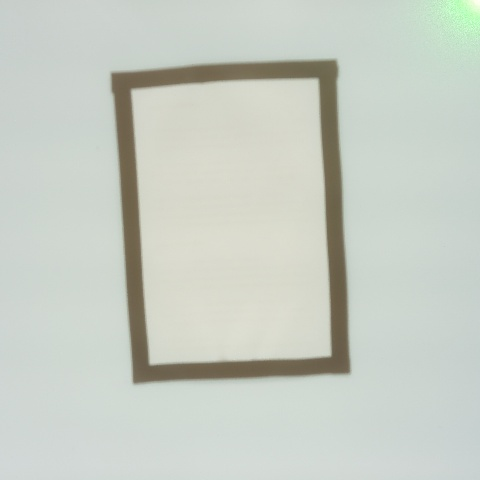
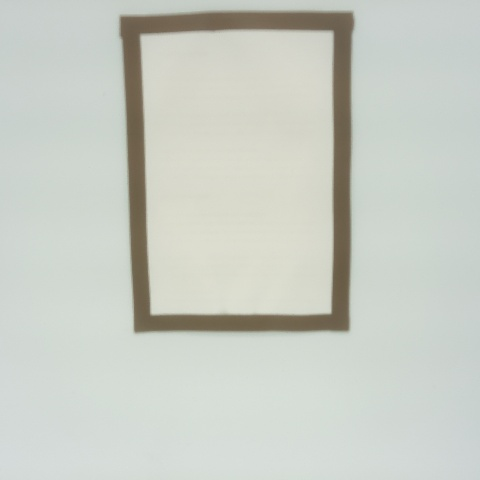
完成矩形图像识别

Changed region(s): [[0.2188, 0.0, 0.75, 0.8125], [0.875, 0.0, 1.0, 0.0938]]

diff --git a/scripts/task/detect_rec.py b/scripts/task/detect_rec.py
@@ -1,0 +1,84 @@
+import cv2
+import time
+import numpy as np
+from picamera2 import Picamera2
+from typing import Tuple, List
+
+def capture_image() -> np.ndarray:
+    cam = Picamera2()
+    cam.configure(cam.create_still_configuration())
+    cam.start()
+    time.sleep(2)
+    frame = cam.capture_array()
+    cam.close()
+    return frame
+
+def crop_image(img: np.ndarray, center: Tuple[int, int], width: int, height: int) -> np.ndarray:
+    x, y = center
+    h, w = img.shape[:2]
+    w2, h2 = width // 2, height // 2
+    x1, y1 = max(0, x - w2), max(0, y - h2)
+    x2, y2 = min(w, x + w2), min(h, y + h2)
+    return img[y1:y2, x1:x2].copy()
+
+def find_black_rectangle_corners(debug: bool = False, save_path: str = "debug_detected.jpg") -> List[Tuple[float, float]]:
+    original_img = capture_image()
+    h, w = original_img.shape[:2]
+    side_len = min(w, h)
+    center_pt = (w // 2, h // 2)
+    cropped_img = crop_image(original_img, center_pt, side_len, side_len)
+    resized_img = cv2.resize(cropped_img, (480, 480))
+    height, width = resized_img.shape[:2]
+
+    gray = cv2.cvtColor(resized_img, cv2.COLOR_BGR2GRAY)
+    gray_blur = cv2.GaussianBlur(gray, (5, 5), 0)
+    _, thresh = cv2.threshold(gray_blur, 0, 255, cv2.THRESH_BINARY_INV + cv2.THRESH_OTSU)
+    kernel = np.ones((5, 5), np.uint8)
+    closed = cv2.morphologyEx(thresh, cv2.MORPH_CLOSE, kernel, iterations=2)
+
+    contours, _ = cv2.findContours(closed, cv2.RETR_EXTERNAL, cv2.CHAIN_APPROX_SIMPLE)
+    if not contours:
+        return []
+
+    contour = max(contours, key=cv2.contourArea)
+    peri = cv2.arcLength(contour, True)
+    approx = cv2.approxPolyDP(contour, 0.02 * peri, True)
+    if len(approx) == 4:
+        corners = [tuple(pt[0]) for pt in approx]
+    else:
+        rot_rect = cv2.minAreaRect(contour)
+        box = cv2.boxPoints(rot_rect)
+        corners = [tuple(pt) for pt in box]
+
+    def sort_corners_clockwise(c_pts):
+        c_pts = sorted(c_pts, key=lambda p: p[0] + p[1])
+        tl = c_pts[0]; br = c_pts[-1]
+        other = c_pts[1:-1]
+        tr, bl = (other[0], other[1]) if other[0][0] > other[1][0] else (other[1], other[0])
+        return [tl, tr, br, bl]
+
+    corners = sort_corners_clockwise(corners)
+
+    result_points = []
+    for (px, py) in corners:
+        X = (px / (width - 1)) * 100.0
+        Y = ((height - 1 - py) / (height - 1)) * 100.0
+        result_points.append((round(X, 4), round(Y, 4)))
+
+    if debug:
+        pts_int = np.array([[int(x), int(y)] for (x, y) in corners], dtype=np.int32)
+        cv2.polylines(resized_img, [pts_int.reshape(-1, 1, 2)], True, (0, 255, 0), 2)
+        font = cv2.FONT_HERSHEY_SIMPLEX
+        for idx, (px, py) in enumerate(pts_int):
+            cv2.circle(resized_img, (px, py), 5, (0, 0, 255), -1)
+            norm_x, norm_y = result_points[idx]
+            text = f"{idx}:({norm_x:.1f},{norm_y:.1f})"
+            cv2.putText(resized_img, text, (px + 6, py + 18), font, 0.45, (255, 0, 0), 1, cv2.LINE_AA)
+        cv2.imwrite(save_path, resized_img)
+        print(f"[DEBUG] 检测结果已保存为 {save_path}")
+
+    return result_points
+
+if __name__ == "__main__":
+    coords = find_black_rectangle_corners(debug=True, save_path="debug_detected.jpg")
+    print("矩形四个角点坐标:", coords)

diff --git a/scripts/task/ServoControl.py b/scripts/task/ServoControl.py
@@ -151,8 +151,8 @@ def setGroupSpeed(group_id, group_speed):
 def main():
     # 示例：控制舵机1转到1000脉宽，持续时间为2000毫秒
 
-    setPWMServoMove(1, 1500, 2000)  # 控制PWM舵机1转到1500脉宽，持续时间为2000毫秒
-    setPWMServoMove(2, 1500, 2000)  # 控制PWM舵机2转到1500脉宽，持续时间为2000毫秒
+    setPWMServoMove(1, 1700, 2000)  # 控制PWM舵机1转到1500脉宽，持续时间为2000毫秒
+    setPWMServoMove(2, 1200, 2000)  # 控制PWM舵机2转到1500脉宽，持续时间为2000毫秒
     time.sleep(2)  # 等待2秒
 
     print("Servo commands executed successfully.")
